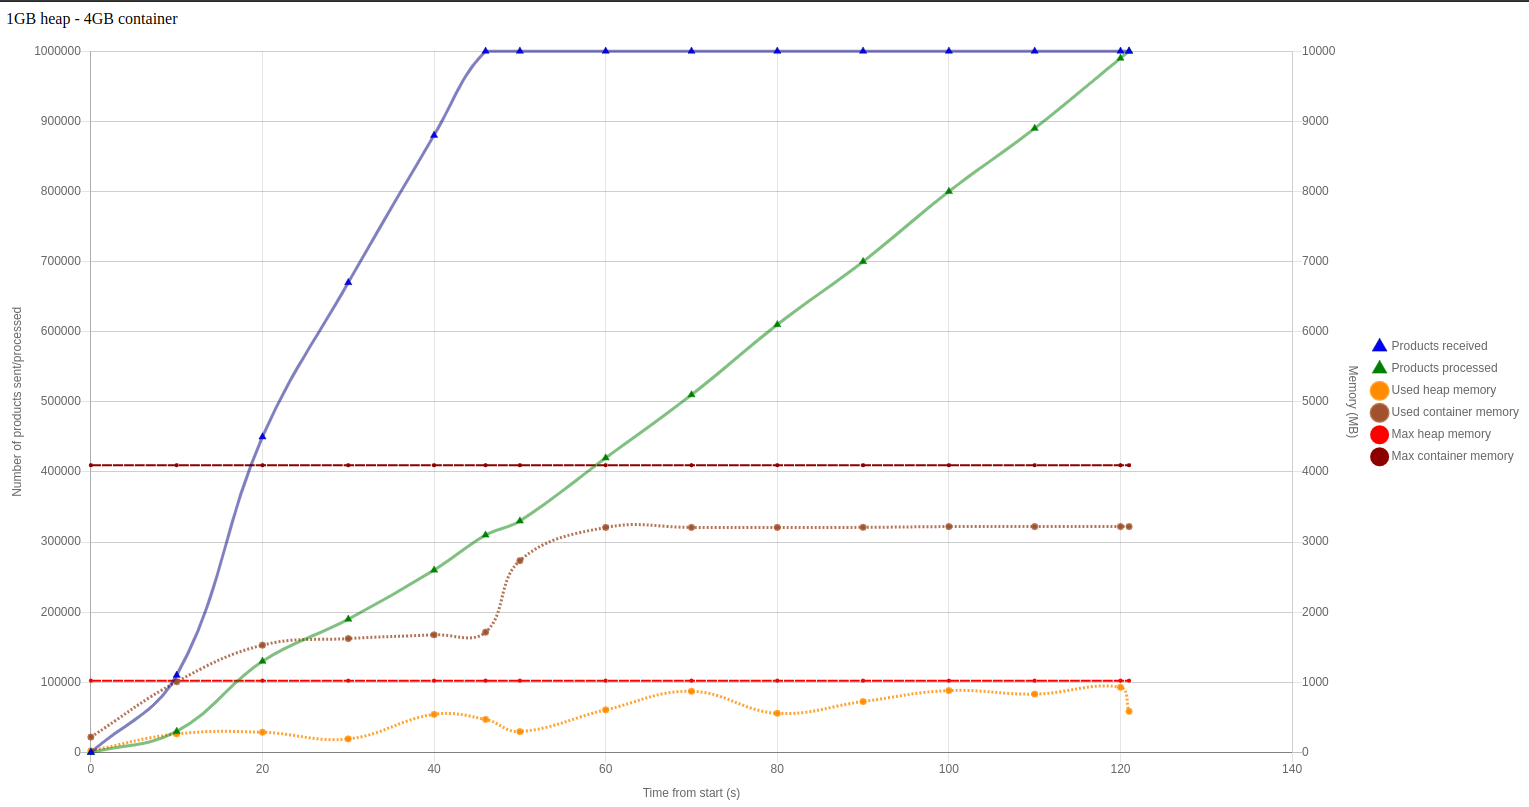
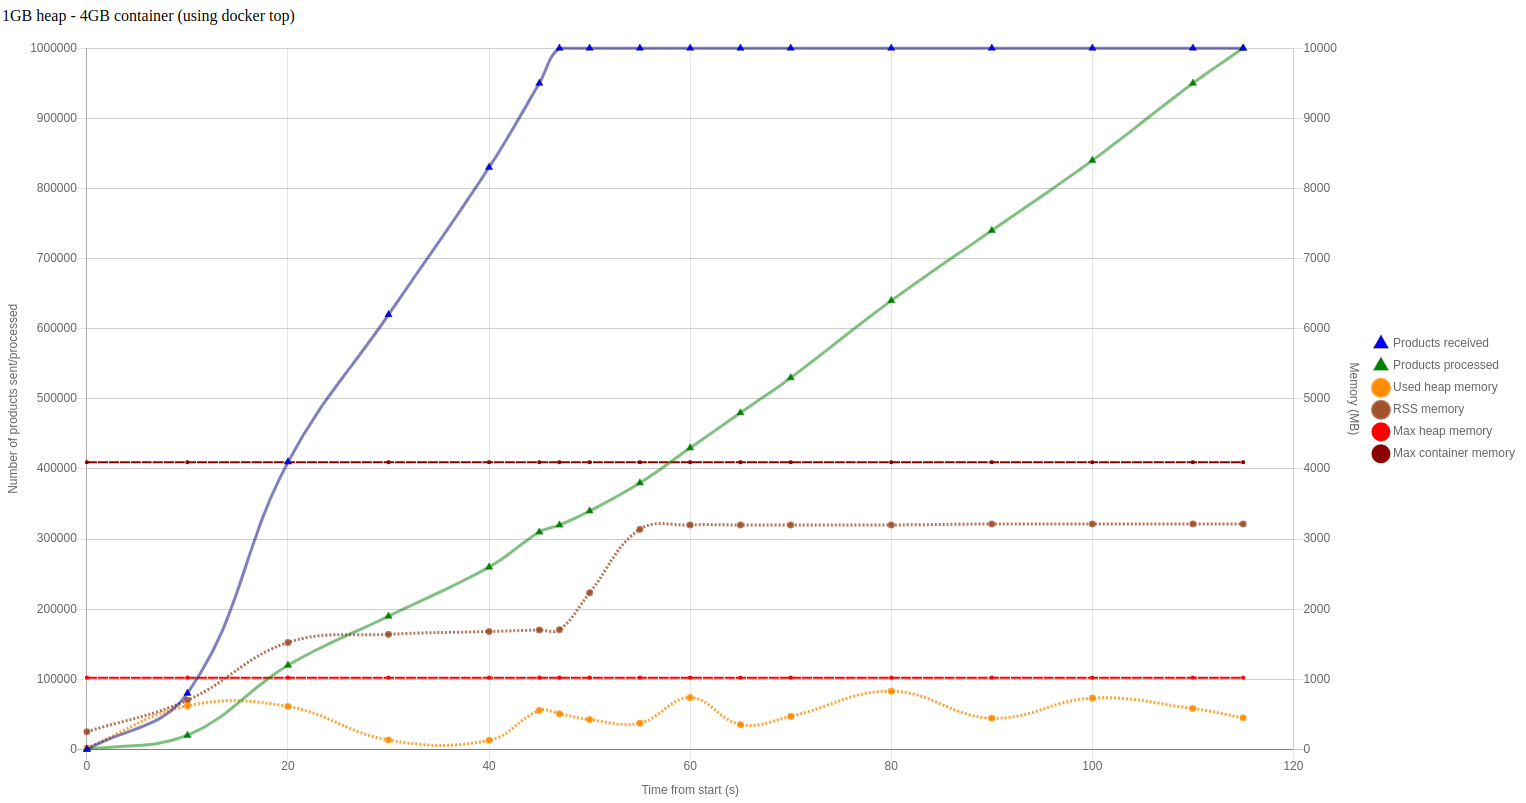
chore: change the way to get the process memory

diff --git a/graphs/legacy (docker-stats)/1gb-4gb.html b/graphs/legacy (docker-stats)/1gb-4gb.html
@@ -1,10 +1,10 @@
 <html>
     <head>
-        <title>512MB heap - 1GB container</title>
+        <title>1GB heap - 4GB container</title>
     </head>
     <body>
         <div style="width: 80%">
-            <p>512MB heap - 1GB container (using docker top)</p>
+            <p>1GB heap - 4GB container</p>
             <canvas id="chart"></canvas>
         </div>
         <script src="https://cdnjs.cloudflare.com/ajax/libs/moment.js/2.29.4/moment-with-locales.min.js"></script>
@@ -15,31 +15,29 @@
             // Raw data
             // --------------------------
             const NB_PRODUCTS = 1000000;
-            const CLIENT_HEAP_MEMORY = 512;
-            const CLIENT_CONTAINER_MEMORY = 1024;
+            const CLIENT_HEAP_MEMORY = 1024;
+            const CLIENT_CONTAINER_MEMORY = 4096;
             const data = [
-                {time: 5, productsReceived: 0, productsProcessed: 0, usedHeapMem: 32, rss: 218284},
-                {time: 10, productsReceived: 80000, productsProcessed: 20000, usedHeapMem: 140, rss: 396328},
-                {time: 20, productsReceived: 310000, productsProcessed: 90000, usedHeapMem: 72, rss: 561164},
-                {time: 30, productsReceived: 550000, productsProcessed: 160000, usedHeapMem: 94, rss: 620068},
-                {time: 40, productsReceived: 770000, productsProcessed: 220000, usedHeapMem: 164, rss: 663580},
-                {time: 50, productsReceived: 990000, productsProcessed: 290000, usedHeapMem: 184, rss: 710284},
-                {time: 53, productsReceived: 1000000, productsProcessed: 310000, usedHeapMem: 314, rss: 1060444},
-                {time: 55, productsReceived: 1000000, productsProcessed: 330000, usedHeapMem: 402, rss: 1060628},
-                {time: 60, productsReceived: 1000000, productsProcessed: 350000, usedHeapMem: 403, rss: 1060432},
-                {time: 70, productsReceived: 1000000, productsProcessed: 440000, usedHeapMem: 434, rss: 1060068},
-                {time: 80, productsReceived: 1000000, productsProcessed: 530000, usedHeapMem: 428, rss: 1060024},
-                {time: 90, productsReceived: 1000000, productsProcessed: 620000, usedHeapMem: 325, rss: 1060304},
-                {time: 100, productsReceived: 1000000, productsProcessed: 720000, usedHeapMem: 371, rss: 1060332},
-                {time: 110, productsReceived: 1000000, productsProcessed: 810000, usedHeapMem: 429, rss: 1060664},
-                {time: 120, productsReceived: 1000000, productsProcessed: 900000, usedHeapMem: 423, rss: 1060432},
-                {time: 130, productsReceived: 1000000, productsProcessed: 1000000, usedHeapMem: 410, rss: 1060320},
+                {time: 0, productsReceived: 0, productsProcessed: 0, usedHeapMem: 25, usedContainerMem: 219},
+                {time: 10, productsReceived: 110000, productsProcessed: 30000, usedHeapMem: 264, usedContainerMem: 1008},
+                {time: 20, productsReceived: 450000, productsProcessed: 130000, usedHeapMem: 288, usedContainerMem: 1530},
+                {time: 30, productsReceived: 670000, productsProcessed: 190000, usedHeapMem: 193, usedContainerMem: 1624},
+                {time: 40, productsReceived: 880000, productsProcessed: 260000, usedHeapMem: 543, usedContainerMem: 1677},
+                {time: 46, productsReceived: 1000000, productsProcessed: 310000, usedHeapMem: 471, usedContainerMem: 1715},
+                {time: 50, productsReceived: 1000000, productsProcessed: 330000, usedHeapMem: 297, usedContainerMem: 2735},
+                {time: 60, productsReceived: 1000000, productsProcessed: 420000, usedHeapMem: 607, usedContainerMem: 3209},
+                {time: 70, productsReceived: 1000000, productsProcessed: 510000, usedHeapMem: 872, usedContainerMem: 3209},
+                {time: 80, productsReceived: 1000000, productsProcessed: 610000, usedHeapMem: 558, usedContainerMem: 3209},
+                {time: 90, productsReceived: 1000000, productsProcessed: 700000, usedHeapMem: 726, usedContainerMem: 3210},
+                {time: 100, productsReceived: 1000000, productsProcessed: 800000, usedHeapMem: 882, usedContainerMem: 3221},
+                {time: 110, productsReceived: 1000000, productsProcessed: 890000, usedHeapMem: 832, usedContainerMem: 3221},
+                {time: 120, productsReceived: 1000000, productsProcessed: 990000, usedHeapMem: 929, usedContainerMem: 3221},
+                {time: 121, productsReceived: 1000000, productsProcessed: 1000000, usedHeapMem: 585, usedContainerMem: 3221},
             ];
             data.forEach(d => {
                 d.productsRemaining = NB_PRODUCTS - d.productsReceived;
                 d.maxHeapMem = CLIENT_HEAP_MEMORY;
                 d.maxContainerMem = CLIENT_CONTAINER_MEMORY;
-                d.rss = d.rss / 1024;
             });
 
 
@@ -91,9 +89,9 @@
                 borderDash: [2, 2],
                 yAxisID: "y-axis-mem"
             };
-            const rssMemoryDataset = {
-                label: "RSS memory",
-                data: data.map(d => ({x: d.time, y: d.rss, _data: d})),
+            const usedContainerMemoryDataset = {
+                label: "Used container memory",
+                data: data.map(d => ({x: d.time, y: d.usedContainerMem, _data: d})),
                 backgroundColor: "rgb(160,82,45)",
                 borderColor: "rgba(160,82,45,0.8)",
                 borderWidth: 3,
@@ -133,7 +131,7 @@
                     // productsRemainingDataset,
                     productsProcessedDataset,
                     usedHeapMemoryDataset,
-                    rssMemoryDataset,
+                    usedContainerMemoryDataset,
                     maxHeapMemoryDataset,
                     maxContainerMemoryDataset
                 ]

diff --git a/graphs/1gb-4gb.html b/graphs/1gb-4gb.html
@@ -4,7 +4,7 @@
     </head>
     <body>
         <div style="width: 80%">
-            <p>1GB heap - 4GB container</p>
+            <p>1GB heap - 4GB container (using docker top)</p>
             <canvas id="chart"></canvas>
         </div>
         <script src="https://cdnjs.cloudflare.com/ajax/libs/moment.js/2.29.4/moment-with-locales.min.js"></script>
@@ -18,26 +18,29 @@
             const CLIENT_HEAP_MEMORY = 1024;
             const CLIENT_CONTAINER_MEMORY = 4096;
             const data = [
-                {time: 0, productsReceived: 0, productsProcessed: 0, usedHeapMem: 25, usedContainerMem: 219},
-                {time: 10, productsReceived: 110000, productsProcessed: 30000, usedHeapMem: 264, usedContainerMem: 1008},
-                {time: 20, productsReceived: 450000, productsProcessed: 130000, usedHeapMem: 288, usedContainerMem: 1530},
-                {time: 30, productsReceived: 670000, productsProcessed: 190000, usedHeapMem: 193, usedContainerMem: 1624},
-                {time: 40, productsReceived: 880000, productsProcessed: 260000, usedHeapMem: 543, usedContainerMem: 1677},
-                {time: 46, productsReceived: 1000000, productsProcessed: 310000, usedHeapMem: 471, usedContainerMem: 1715},
-                {time: 50, productsReceived: 1000000, productsProcessed: 330000, usedHeapMem: 297, usedContainerMem: 2735},
-                {time: 60, productsReceived: 1000000, productsProcessed: 420000, usedHeapMem: 607, usedContainerMem: 3209},
-                {time: 70, productsReceived: 1000000, productsProcessed: 510000, usedHeapMem: 872, usedContainerMem: 3209},
-                {time: 80, productsReceived: 1000000, productsProcessed: 610000, usedHeapMem: 558, usedContainerMem: 3209},
-                {time: 90, productsReceived: 1000000, productsProcessed: 700000, usedHeapMem: 726, usedContainerMem: 3210},
-                {time: 100, productsReceived: 1000000, productsProcessed: 800000, usedHeapMem: 882, usedContainerMem: 3221},
-                {time: 110, productsReceived: 1000000, productsProcessed: 890000, usedHeapMem: 832, usedContainerMem: 3221},
-                {time: 120, productsReceived: 1000000, productsProcessed: 990000, usedHeapMem: 929, usedContainerMem: 3221},
-                {time: 121, productsReceived: 1000000, productsProcessed: 1000000, usedHeapMem: 585, usedContainerMem: 3221},
+                {time: 0, productsReceived: 0, productsProcessed: 0, usedHeapMem: 20, rss: 258992},
+                {time: 10, productsReceived: 80000, productsProcessed: 20000, usedHeapMem: 622, rss: 718352},
+                {time: 20, productsReceived: 410000, productsProcessed: 120000, usedHeapMem: 613, rss: 1561576},
+                {time: 30, productsReceived: 620000, productsProcessed: 190000, usedHeapMem: 135, rss: 1680684},
+                {time: 40, productsReceived: 830000, productsProcessed: 260000, usedHeapMem: 130, rss: 1722084},
+                {time: 45, productsReceived: 950000, productsProcessed: 310000, usedHeapMem: 556, rss: 1743984},
+                {time: 47, productsReceived: 1000000, productsProcessed: 320000, usedHeapMem: 508, rss: 1748556},
+                {time: 50, productsReceived: 1000000, productsProcessed: 340000, usedHeapMem: 426, rss: 2287172},
+                {time: 55, productsReceived: 1000000, productsProcessed: 380000, usedHeapMem: 375, rss: 3213676},
+                {time: 60, productsReceived: 1000000, productsProcessed: 430000, usedHeapMem: 740, rss: 3277448},
+                {time: 65, productsReceived: 1000000, productsProcessed: 480000, usedHeapMem: 354, rss: 3277448},
+                {time: 70, productsReceived: 1000000, productsProcessed: 530000, usedHeapMem: 471, rss: 3277508},
+                {time: 80, productsReceived: 1000000, productsProcessed: 640000, usedHeapMem: 831, rss: 3277768},
+                {time: 90, productsReceived: 1000000, productsProcessed: 740000, usedHeapMem: 445, rss: 3292352},
+                {time: 100, productsReceived: 1000000, productsProcessed: 840000, usedHeapMem: 732, rss: 3292684},
+                {time: 110, productsReceived: 1000000, productsProcessed: 950000, usedHeapMem: 584, rss: 3292744},
+                {time: 115, productsReceived: 1000000, productsProcessed: 1000000, usedHeapMem: 451, rss: 3292744},
             ];
             data.forEach(d => {
                 d.productsRemaining = NB_PRODUCTS - d.productsReceived;
                 d.maxHeapMem = CLIENT_HEAP_MEMORY;
                 d.maxContainerMem = CLIENT_CONTAINER_MEMORY;
+                d.rss = d.rss / 1024;
             });
 
 
@@ -89,9 +92,9 @@
                 borderDash: [2, 2],
                 yAxisID: "y-axis-mem"
             };
-            const usedContainerMemoryDataset = {
-                label: "Used container memory",
-                data: data.map(d => ({x: d.time, y: d.usedContainerMem, _data: d})),
+            const rssMemoryDataset = {
+                label: "RSS memory",
+                data: data.map(d => ({x: d.time, y: d.rss, _data: d})),
                 backgroundColor: "rgb(160,82,45)",
                 borderColor: "rgba(160,82,45,0.8)",
                 borderWidth: 3,
@@ -131,7 +134,7 @@
                     // productsRemainingDataset,
                     productsProcessedDataset,
                     usedHeapMemoryDataset,
-                    usedContainerMemoryDataset,
+                    rssMemoryDataset,
                     maxHeapMemoryDataset,
                     maxContainerMemoryDataset
                 ]

diff --git a/graphs/legacy (docker-stats)/512mb-1gb.html b/graphs/legacy (docker-stats)/512mb-1gb.html
@@ -4,7 +4,7 @@
     </head>
     <body>
         <div style="width: 80%">
-            <p>512MB heap - 1GB container (using docker top)</p>
+            <p>512MB heap - 1GB container</p>
             <canvas id="chart"></canvas>
         </div>
         <script src="https://cdnjs.cloudflare.com/ajax/libs/moment.js/2.29.4/moment-with-locales.min.js"></script>
@@ -18,28 +18,25 @@
             const CLIENT_HEAP_MEMORY = 512;
             const CLIENT_CONTAINER_MEMORY = 1024;
             const data = [
-                {time: 5, productsReceived: 0, productsProcessed: 0, usedHeapMem: 32, rss: 218284},
-                {time: 10, productsReceived: 80000, productsProcessed: 20000, usedHeapMem: 140, rss: 396328},
-                {time: 20, productsReceived: 310000, productsProcessed: 90000, usedHeapMem: 72, rss: 561164},
-                {time: 30, productsReceived: 550000, productsProcessed: 160000, usedHeapMem: 94, rss: 620068},
-                {time: 40, productsReceived: 770000, productsProcessed: 220000, usedHeapMem: 164, rss: 663580},
-                {time: 50, productsReceived: 990000, productsProcessed: 290000, usedHeapMem: 184, rss: 710284},
-                {time: 53, productsReceived: 1000000, productsProcessed: 310000, usedHeapMem: 314, rss: 1060444},
-                {time: 55, productsReceived: 1000000, productsProcessed: 330000, usedHeapMem: 402, rss: 1060628},
-                {time: 60, productsReceived: 1000000, productsProcessed: 350000, usedHeapMem: 403, rss: 1060432},
-                {time: 70, productsReceived: 1000000, productsProcessed: 440000, usedHeapMem: 434, rss: 1060068},
-                {time: 80, productsReceived: 1000000, productsProcessed: 530000, usedHeapMem: 428, rss: 1060024},
-                {time: 90, productsReceived: 1000000, productsProcessed: 620000, usedHeapMem: 325, rss: 1060304},
-                {time: 100, productsReceived: 1000000, productsProcessed: 720000, usedHeapMem: 371, rss: 1060332},
-                {time: 110, productsReceived: 1000000, productsProcessed: 810000, usedHeapMem: 429, rss: 1060664},
-                {time: 120, productsReceived: 1000000, productsProcessed: 900000, usedHeapMem: 423, rss: 1060432},
-                {time: 130, productsReceived: 1000000, productsProcessed: 1000000, usedHeapMem: 410, rss: 1060320},
+                {time: 0, productsReceived: 0, productsProcessed: 0, usedHeapMem: 47, usedContainerMem: 187},
+                {time: 10, productsReceived: 110000, productsProcessed: 30000, usedHeapMem: 120, usedContainerMem: 386},
+                {time: 20, productsReceived: 420000, productsProcessed: 120000, usedHeapMem: 187, usedContainerMem: 548},
+                {time: 30, productsReceived: 620000, productsProcessed: 180000, usedHeapMem: 199, usedContainerMem: 595},
+                {time: 40, productsReceived: 800000, productsProcessed: 240000, usedHeapMem: 170, usedContainerMem: 636},
+                {time: 50, productsReceived: 1000000, productsProcessed: 300000, usedHeapMem: 252, usedContainerMem: 675},
+                {time: 60, productsReceived: 1000000, productsProcessed: 360000, usedHeapMem: 307, usedContainerMem: 1024},
+                {time: 70, productsReceived: 1000000, productsProcessed: 460000, usedHeapMem: 316, usedContainerMem: 1024},
+                {time: 80, productsReceived: 1000000, productsProcessed: 560000, usedHeapMem: 356, usedContainerMem: 1024},
+                {time: 90, productsReceived: 1000000, productsProcessed: 650000, usedHeapMem: 376, usedContainerMem: 1024},
+                {time: 100, productsReceived: 1000000, productsProcessed: 750000, usedHeapMem: 364, usedContainerMem: 1019},
+                {time: 110, productsReceived: 1000000, productsProcessed: 850000, usedHeapMem: 406, usedContainerMem: 1020},
+                {time: 120, productsReceived: 1000000, productsProcessed: 940000, usedHeapMem: 393, usedContainerMem: 1020},
+                {time: 126, productsReceived: 1000000, productsProcessed: 1000000, usedHeapMem: 361, usedContainerMem: 1022},
             ];
             data.forEach(d => {
                 d.productsRemaining = NB_PRODUCTS - d.productsReceived;
                 d.maxHeapMem = CLIENT_HEAP_MEMORY;
                 d.maxContainerMem = CLIENT_CONTAINER_MEMORY;
-                d.rss = d.rss / 1024;
             });
 
 
@@ -91,9 +88,9 @@
                 borderDash: [2, 2],
                 yAxisID: "y-axis-mem"
             };
-            const rssMemoryDataset = {
-                label: "RSS memory",
-                data: data.map(d => ({x: d.time, y: d.rss, _data: d})),
+            const usedContainerMemoryDataset = {
+                label: "Used container memory",
+                data: data.map(d => ({x: d.time, y: d.usedContainerMem, _data: d})),
                 backgroundColor: "rgb(160,82,45)",
                 borderColor: "rgba(160,82,45,0.8)",
                 borderWidth: 3,
@@ -133,7 +130,7 @@
                     // productsRemainingDataset,
                     productsProcessedDataset,
                     usedHeapMemoryDataset,
-                    rssMemoryDataset,
+                    usedContainerMemoryDataset,
                     maxHeapMemoryDataset,
                     maxContainerMemoryDataset
                 ]

diff --git a/README.md b/README.md
@@ -141,7 +141,7 @@ When using `onOverflow().drop()`, ~80% of messages are dropped but we can still 
 
 Note:
 - VisualVM was used to monitor used heap memory
-- `docker stats` was used to monitor used container memory
+- ~~`docker stats` was used to monitor used container memory~~. **Use `watch -n 1 docker top client -o pid,rss,args` instead**. See https://quarkus.io/guides/performance-measure#measuring-memory-correctly-on-docker
 - These values are not high precision results as I recorded my terminal and VisualVM windows and then played/paused the video to write down the numbers every X seconds 😐
 
 ### Consequences
